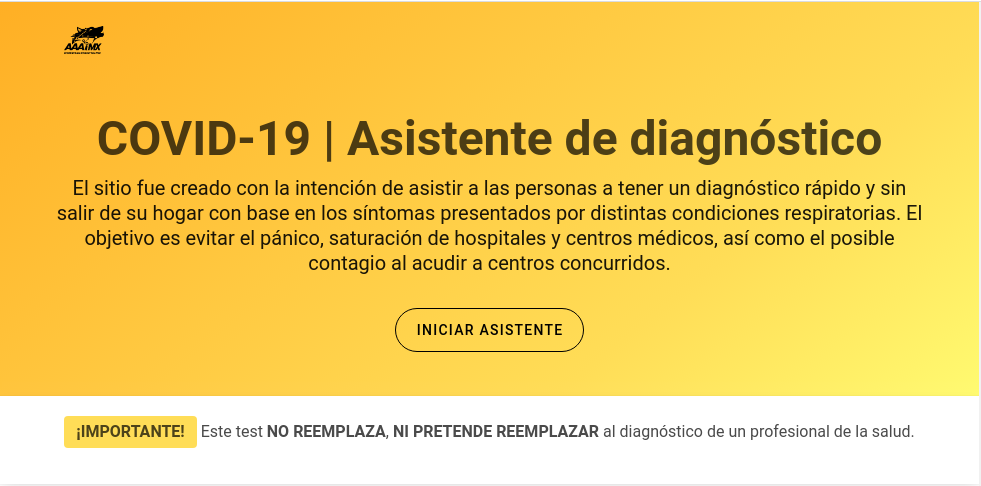
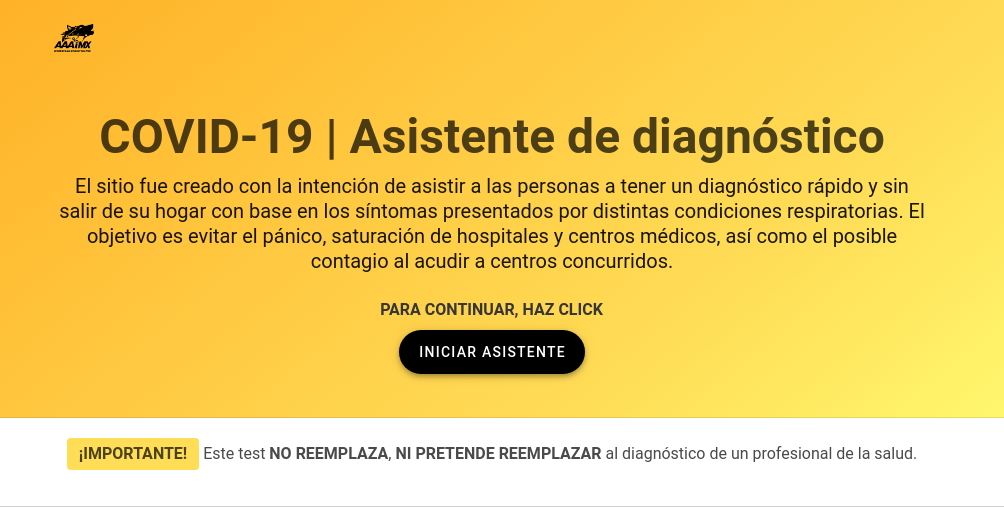
Start button - message helper

diff --git a/components/common/ProjectDescription.vue b/components/common/ProjectDescription.vue
@@ -57,7 +57,7 @@
           <a
             class="share-icon mx-4"
             target="_blank"
-            href="https://www.facebook.com/share.php?u=https://www.aaaimx.org/covid19-screening-assistant/"
+            href="https://www.facebook.com/share.php?u=https://www.aaaimx.org/covid19-assistant/"
           >
             <img
               width="50px"
@@ -67,7 +67,7 @@
           <a
             class="share-icon mx-4"
             target="_blank"
-            href="https://www.linkedin.com/shareArticle?mini=true&amp;url=https://www.aaaimx.org/covid19-screening-assistant/"
+            href="https://www.linkedin.com/shareArticle?mini=true&amp;url=https://www.aaaimx.org/covid19-assistant/"
           >
             <img
               width="50px"
@@ -77,7 +77,7 @@
           <a
             class="share-icon mx-4"
             target="_blank"
-            href="https://twitter.com/intent/tweet?text=&url=https://www.aaaimx.org/covid19-screening-assistant/"
+            href="https://twitter.com/intent/tweet?text=&url=https://www.aaaimx.org/covid19-assistant/"
           >
             <img
               width="50px"

diff --git a/components/Wizard.vue b/components/Wizard.vue
@@ -4,12 +4,13 @@
       <v-btn
         color="secondary"
         class="ma-2"
+        flat
+        elevation="4"
         large
         rounded
-        outlined
         @click="dialog = true"
       >
-        Iniciar Asistente
+        INICIAR ASISTENTE
       </v-btn>
       <v-dialog
         v-model="dialog"
@@ -30,9 +31,9 @@
             <v-toolbar-title>Asistente</v-toolbar-title>
             <v-spacer></v-spacer>
             <v-toolbar-items>
-              <v-btn icon>
+              <!-- <v-btn icon>
                 <v-icon @click="help = true">mdi-help</v-icon>
-              </v-btn>
+              </v-btn> -->
             </v-toolbar-items>
           </v-toolbar>
           <v-card-text>

diff --git a/components/Welcome.vue b/components/Welcome.vue
@@ -57,11 +57,7 @@
           evitar el pánico, saturación de hospitales y centros médicos, así como
           el posible contagio al acudir a centros concurridos.
         </h2>
-        <!-- <p class="has-text-centered">
-          <a class="button is-medium is-outlined is-rounded">
-            Iniciar asistente
-          </a>
-        </p> -->
+        <strong>PARA CONTINUAR, HAZ CLICK</strong>
         <Wizard />
       </div>
     </div>
